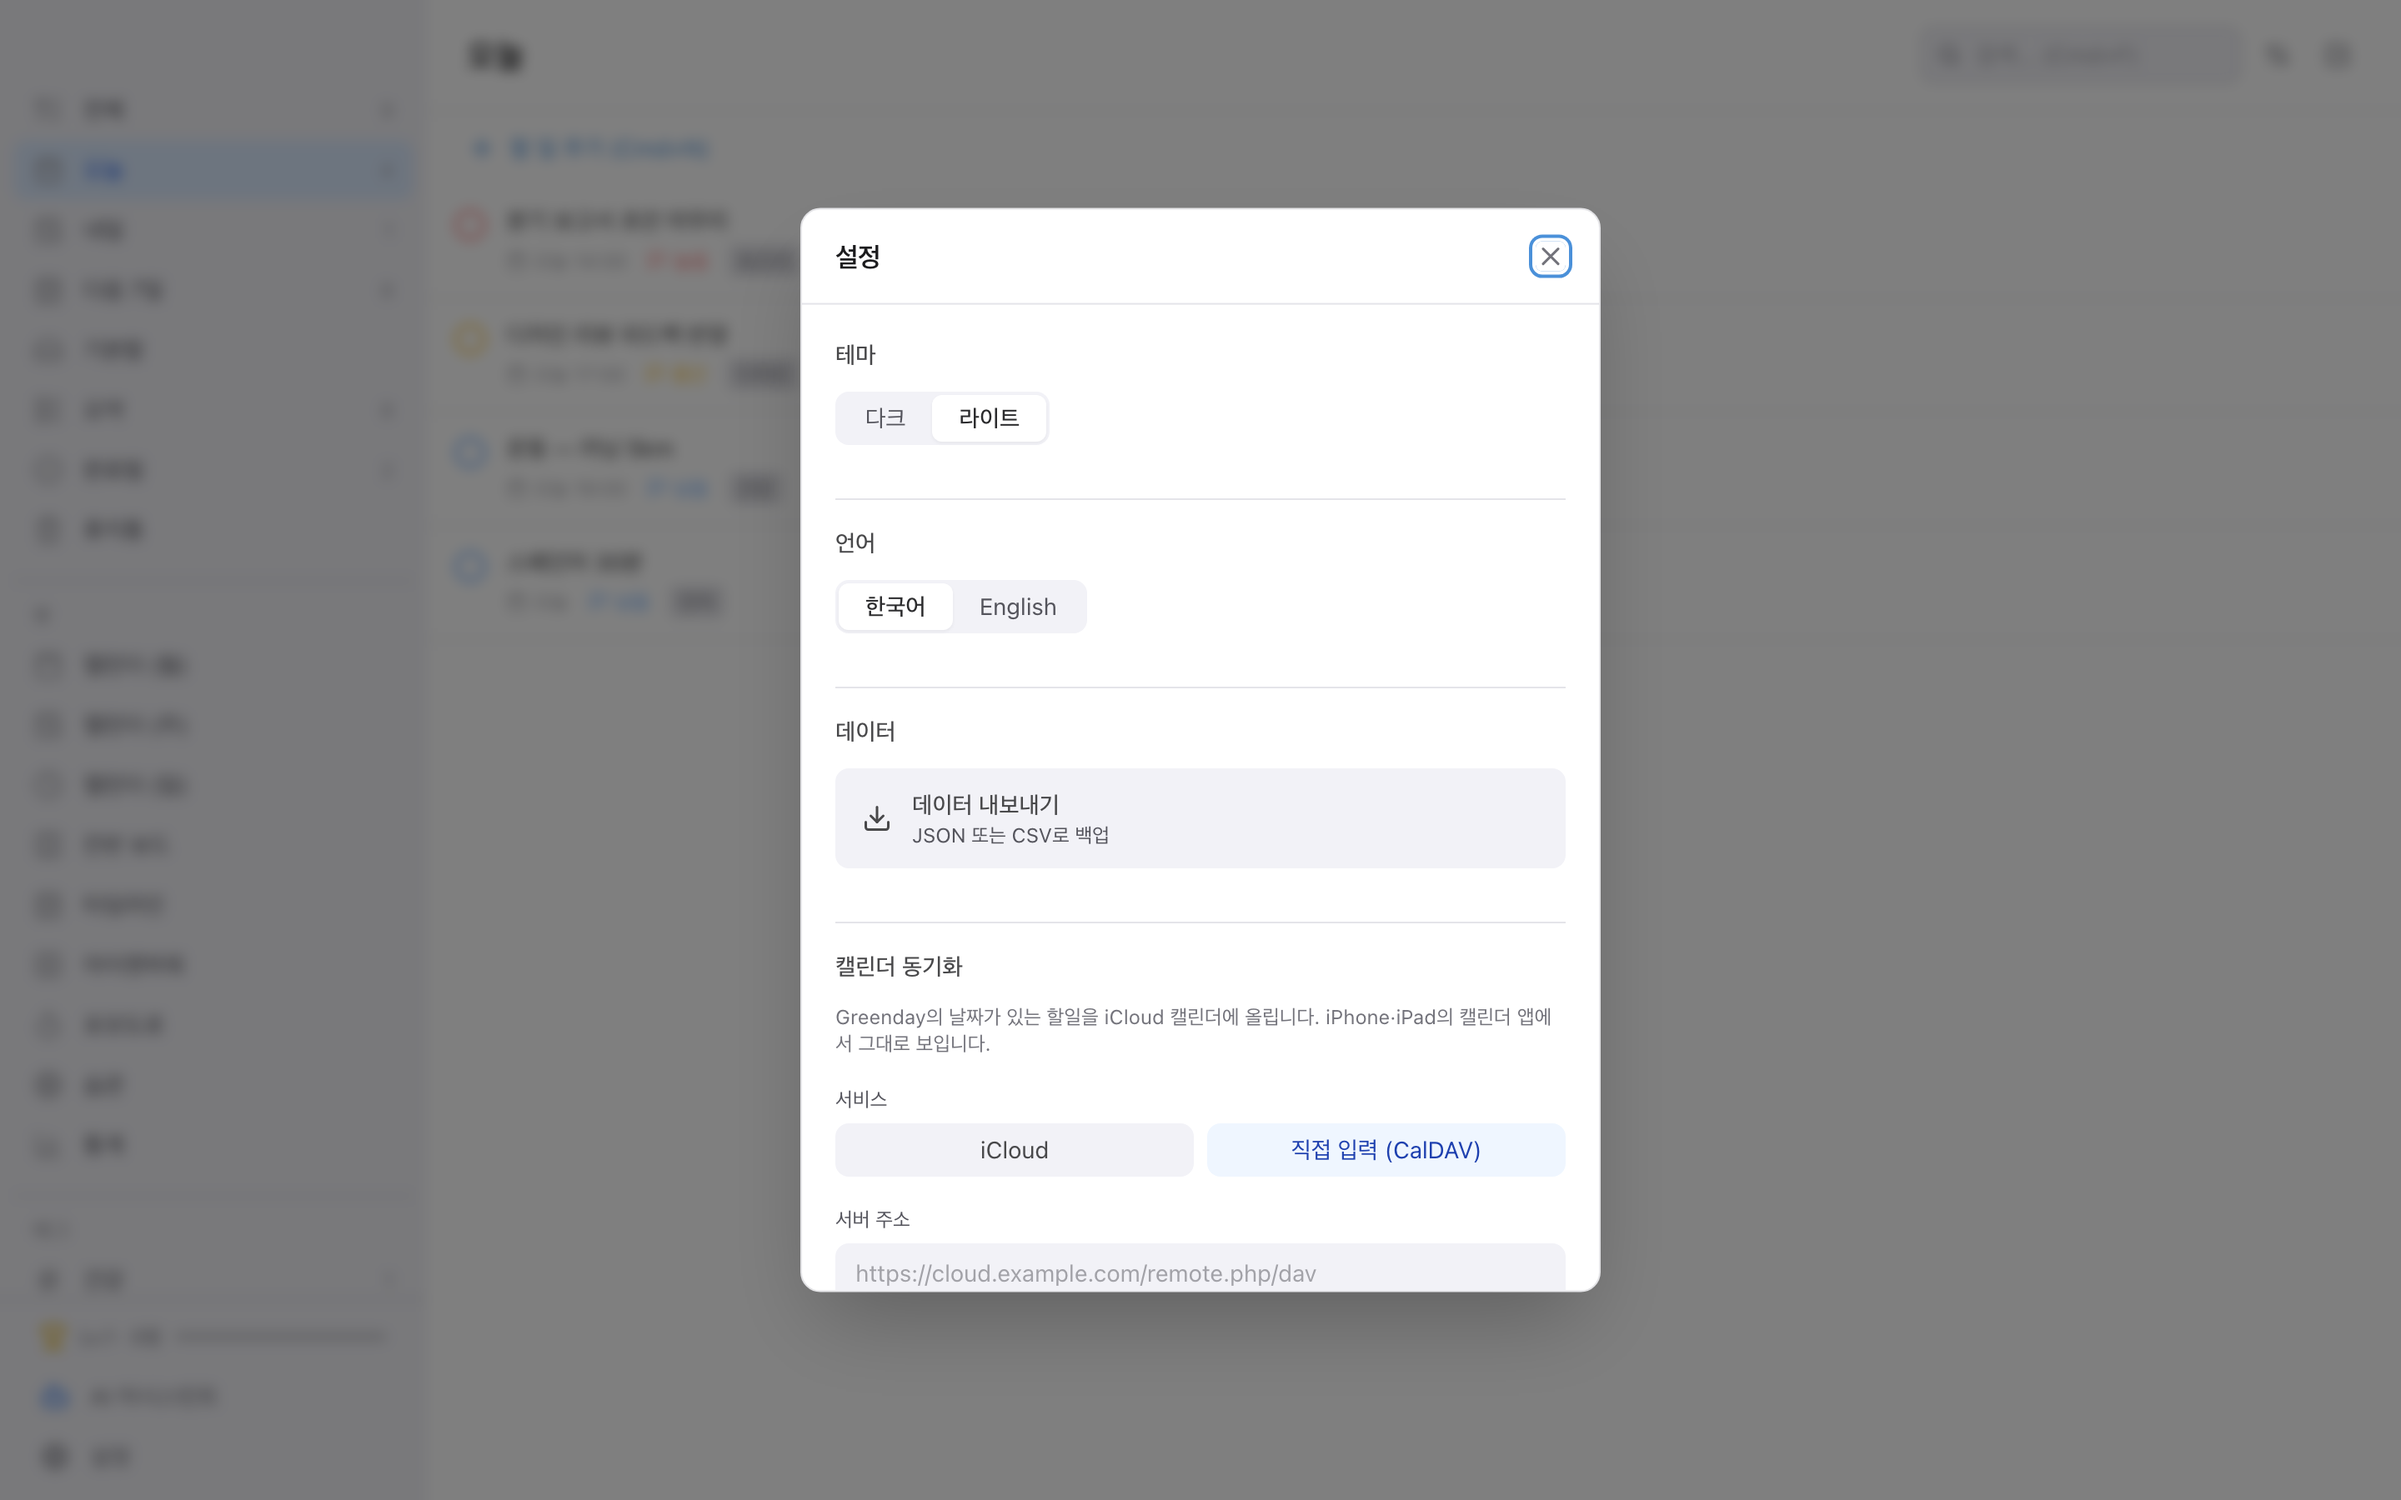
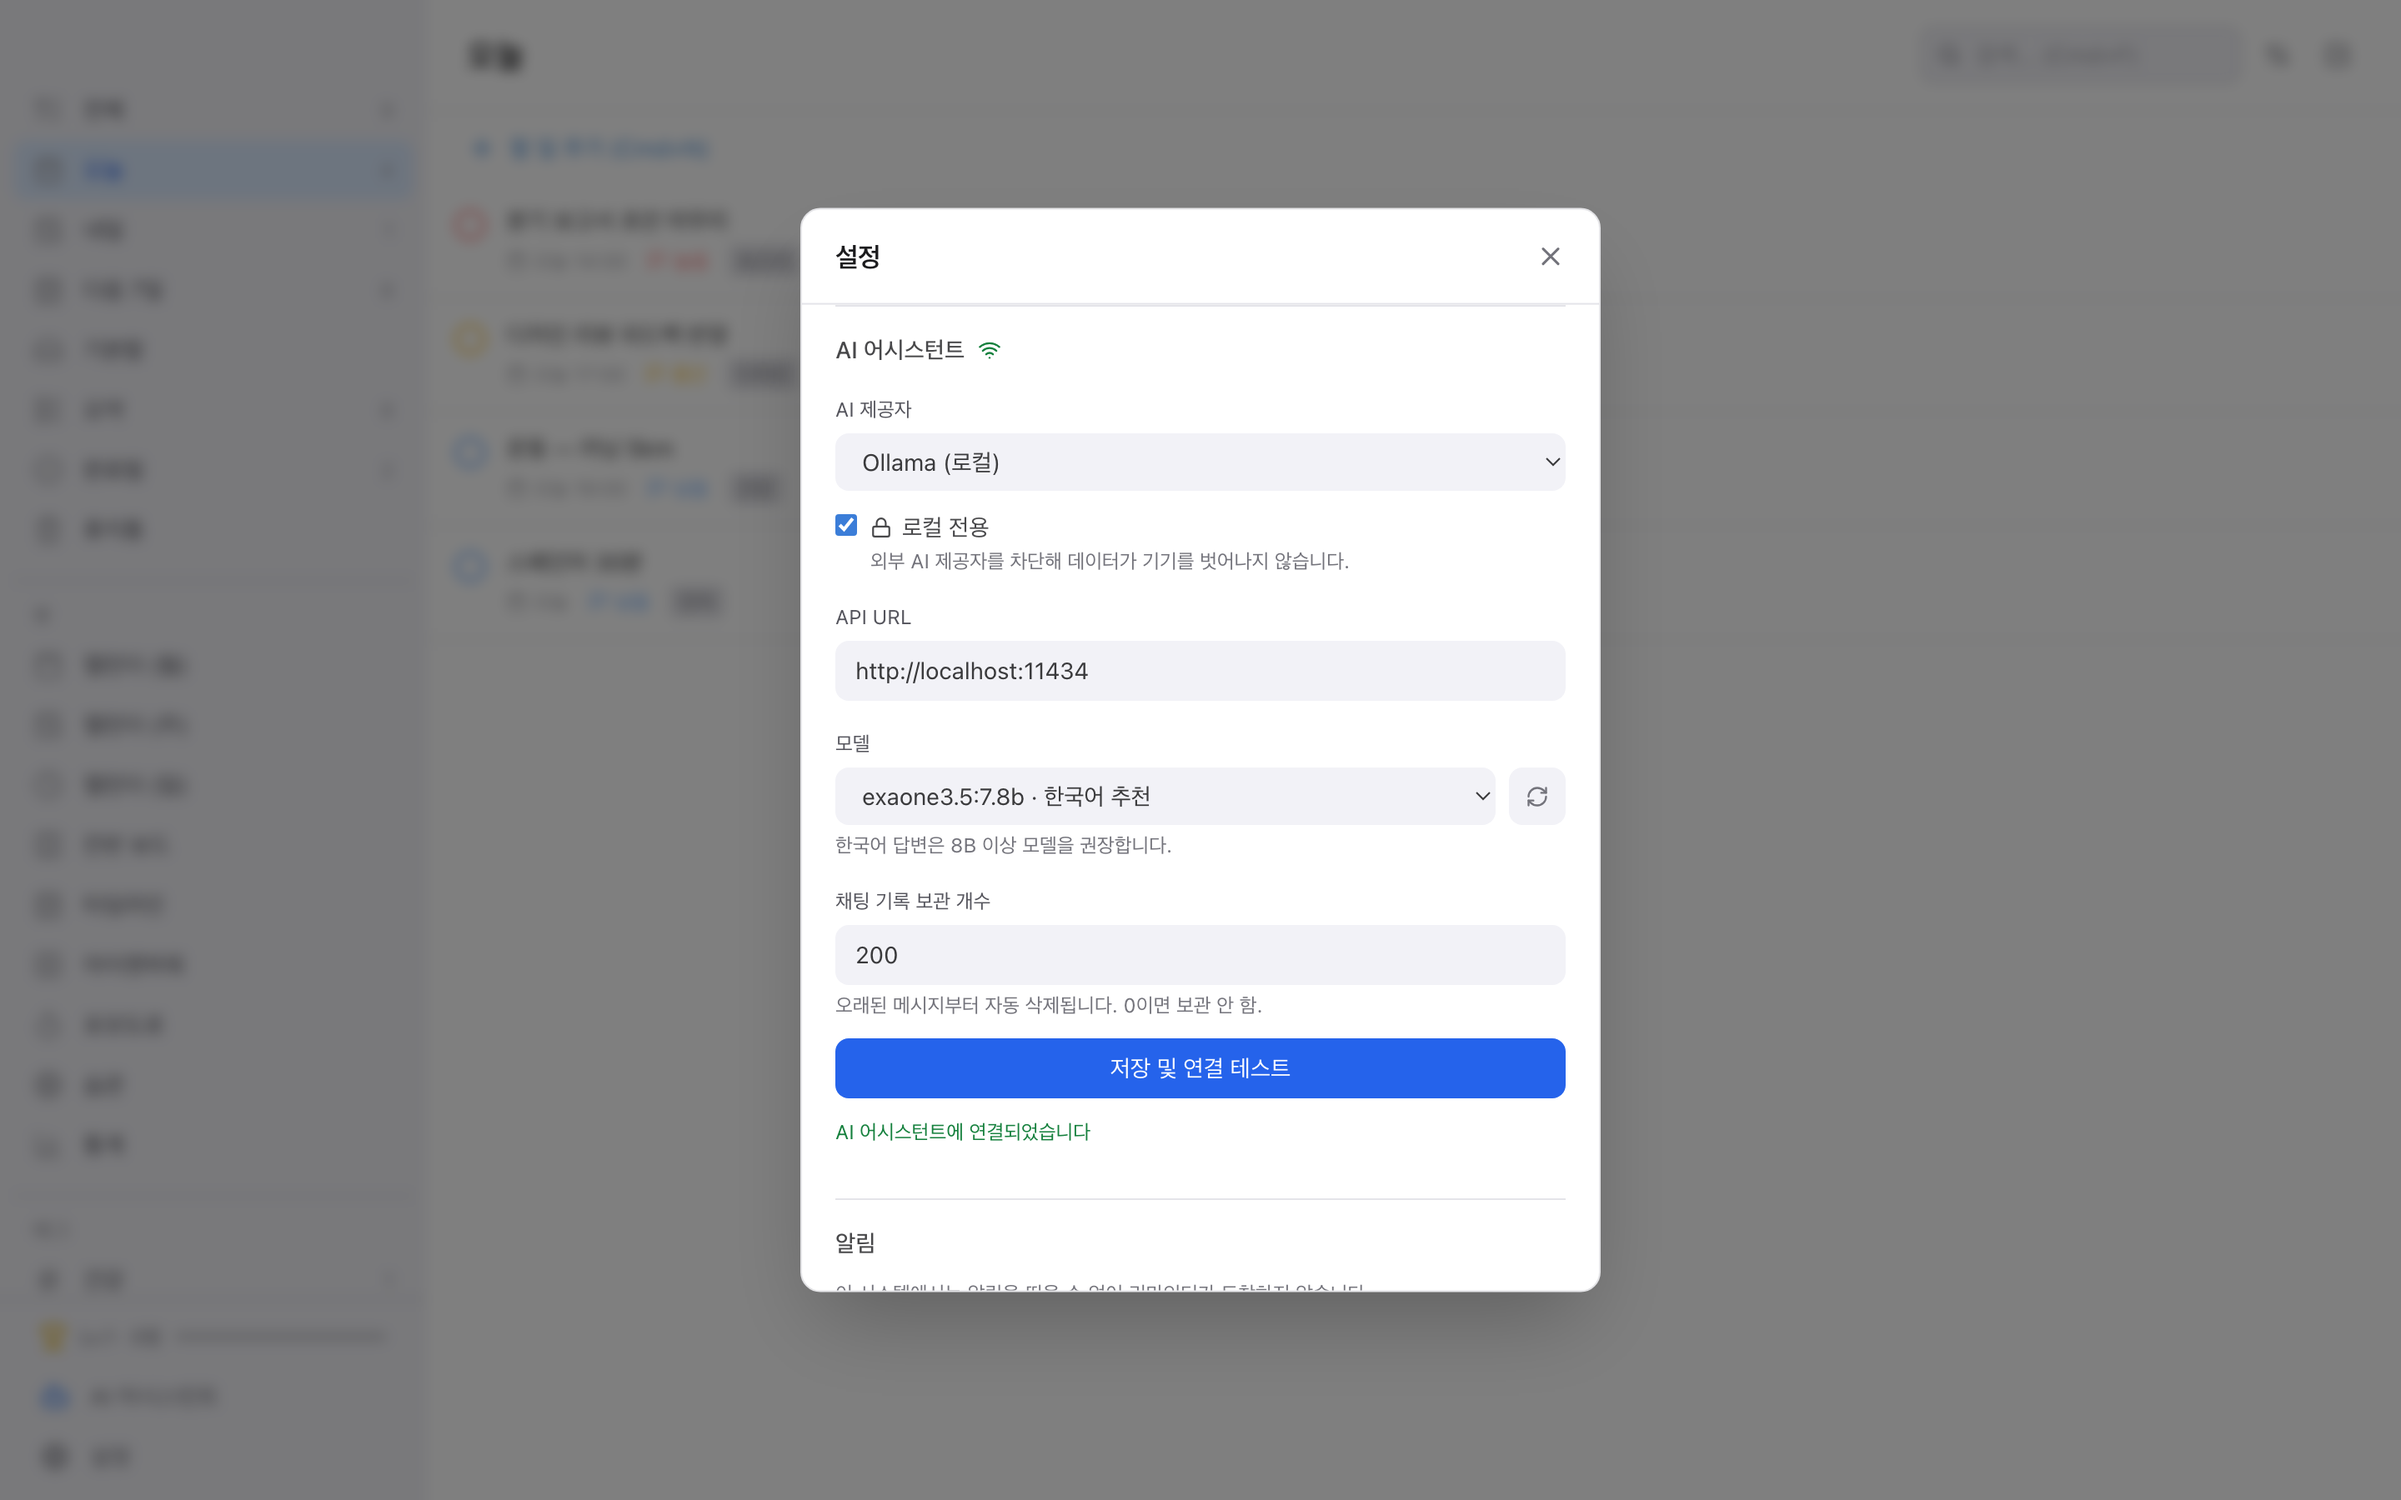
docs(app-store): 설정 장면 재촬영 — 바탕 '오늘' 공통, 로컬 전용 AI 켜진 상태
헤드리스 스텁에 ?view=a,b 순차 클릭·?scrollto·?ai=local 을 더했다.
포커스 링이 찍히지 않게 활성 요소를 계속 blur 한다.

Claude-Session: https://claude.ai/code/session_01AYivsYTBrYRBj4KiFt3dj9

diff --git a/docs/app-store/tools/headless-stub.js b/docs/app-store/tools/headless-stub.js
@@ -6,6 +6,7 @@
   const today = new Date();
   const day = (n) => { const d = new Date(today); d.setDate(d.getDate() + n); return iso(d); };
   // 테마는 localStorage 에서 온다. ?theme=light 로 갈아끼운다.
+  const AI_LOCAL = new URLSearchParams(location.search).get('ai') === 'local';
   const wanted = new URLSearchParams(location.search).get('theme');
   if (wanted) localStorage.setItem('ticktick-theme', wanted);
 
@@ -66,8 +67,11 @@
         case 'getScore':       return () => ok({ level: 4, points: 428, streak: 12 });
         case 'getPomodoroSessions': return () => ok([]);
         case 'aiGetHistory':   return () => ok([]);
-        case 'aiGetConfig':    return () => ok({ enabled: false, model: '', baseUrl: '' });
-        case 'aiCheckConnection': return () => ok({ ok: false });
+        // ?ai=local 이면 로컬 Ollama에 연결되고 '로컬 전용' 잠금이 켜진 상태로 보인다(설정 장면용).
+        case 'aiGetConfig':    return () => ok(AI_LOCAL
+          ? { provider: 'ollama', baseUrl: 'http://localhost:11434', model: 'exaone3.5:7.8b', apiKey: null, maxHistoryMessages: 200, localOnly: true }
+          : { provider: 'ollama', baseUrl: 'http://localhost:11434', model: '', apiKey: null, maxHistoryMessages: 200, localOnly: false });
+        case 'aiCheckConnection': return () => ok(AI_LOCAL ? { connected: true, models: ['exaone3.5:7.8b', 'llama3.2:latest'] } : { connected: false, models: [] });
         case 'calendarGetConfig': return () => ok({ connected: false });
         case 'googleGetConfig':   return () => ok({ connected: false });
         case 'notificationPermission': return () => ok('granted');
@@ -81,15 +85,37 @@
   window.electron = { ipcRenderer: { on: () => {}, send: () => {}, invoke: () => ok(undefined) } };
 })();
 
-/* 캡처용 화면 전환. 헤드리스는 클릭을 못 하므로 스크립트가 대신 누른다. */
+/* 캡처용 화면 전환. 헤드리스는 클릭을 못 하므로 스크립트가 대신 누른다.
+   ?view=오늘,설정 처럼 쉼표로 이으면 차례로 누른다(바탕 화면을 고른 뒤 설정을 여는 식).
+   ?scrollto=AI%20어시스턴트 이면 그 글자로 시작하는 요소를 스크롤 영역 맨 위로 가져온다. */
 (function () {
-  const want = new URLSearchParams(location.search).get('view');
-  if (!want) return;
+  const q = new URLSearchParams(location.search);
+  const steps = (q.get('view') || '').split(',').map((s) => s.trim()).filter(Boolean);
+  const scrollTo = q.get('scrollto');
+  if (!steps.length && !scrollTo) return;
+  const find = (want) => [...document.querySelectorAll('button,a,div[role="button"],li')]
+    .find((e) => e.textContent.trim() === want || e.textContent.trim().startsWith(want));
   let tries = 0;
   const t = setInterval(() => {
-    if (++tries > 60) return clearInterval(t);
-    const el = [...document.querySelectorAll('button,a,div[role="button"],li')]
-      .find((e) => e.textContent.trim() === want || e.textContent.trim().startsWith(want));
-    if (el) { el.click(); clearInterval(t); }
-  }, 100);
+    if (++tries > 80) return clearInterval(t);
+    if (steps.length) {
+      const el = find(steps[0]);
+      if (el) { el.click(); steps.shift(); }
+      return;
+    }
+    if (scrollTo) {
+      // 열린 다이얼로그가 있으면 그 안에서만 찾는다 — 사이드바에 같은 글자가 있을 수 있다.
+      const root = document.querySelector('[role="dialog"]') || document;
+      const el = [...root.querySelectorAll('span,label,div,h3')]
+        .find((e) => e.children.length <= 2 && e.textContent.trim().startsWith(scrollTo));
+      if (!el) return;
+      el.scrollIntoView({ block: 'start' });
+    }
+    clearInterval(t);
+  }, 120);
+  // 다이얼로그가 첫 버튼에 포커스를 주면 포커스 링이 찍힌다. 계속 포커스를 뺀다.
+  setInterval(() => {
+    const a = document.activeElement;
+    if (a && a !== document.body) a.blur();
+  }, 150);
 })();
